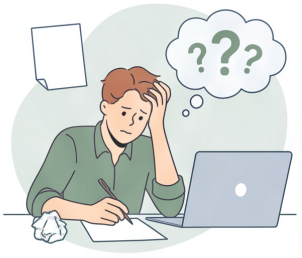
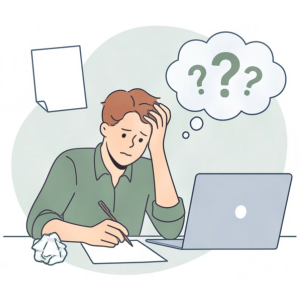
Styling fixes to home page problems and solutions

diff --git a/src/components/HomePage/Problems.test.tsx b/src/components/HomePage/Problems.test.tsx
@@ -3,6 +3,7 @@
 import "@testing-library/jest-dom/vitest";
 
 import { render, screen, within } from "@testing-library/react";
+import { Fragment } from "react";
 import { describe, expect, it, vi } from "vitest";
 
 import type { IProblemsProps } from "@/lib/types";
@@ -11,8 +12,10 @@ import Problems from "./Problems";
 
 vi.mock("next/image", () => ({
   default: ({ alt, className, src }: { alt: string; className?: string; src: string }) =>
-    // eslint-disable-next-line @next/next/no-img-element
-    <img alt={alt} className={className} src={src} />,
+    (
+      // eslint-disable-next-line @next/next/no-img-element
+      <img alt={alt} className={className} height={300} src={src} width={300} />
+    ),
 }));
 
 const problemsProps: IProblemsProps = {
@@ -50,6 +53,37 @@ describe("Problems", () => {
       }),
     ).toBeInTheDocument();
     expect(within(gapList).getAllByRole("listitem")).toHaveLength(3);
-    expect(screen.getByRole("img")).toBeInTheDocument();
+
+    const illustration = screen.getByRole("img", {
+      name: "Editorial workflow comparison illustration",
+    });
+
+    expect(illustration).toHaveAttribute("width", "300");
+    expect(illustration).toHaveAttribute("height", "300");
+  });
+
+  it("renders entity markup supplied through TSX props as decoded text", () => {
+    render(
+      <Problems
+        {...problemsProps}
+        toolFailures={[
+          {
+            title: (
+              <Fragment>
+                Global popularity &ne; niche authority
+              </Fragment>
+            ),
+            description: "Generic popularity is not the same as niche authority.",
+          },
+        ]}
+      />,
+    );
+
+    expect(
+      screen.getByRole("heading", {
+        level: 4,
+        name: "Global popularity ≠ niche authority",
+      }),
+    ).toBeInTheDocument();
   });
 });

diff --git a/src/components/HomePage/Features.tsx b/src/components/HomePage/Features.tsx
@@ -10,29 +10,29 @@ const FeatureCard: FC<IFeatureItem> = ({ title, image, description, link }) => {
   return (
     <Link href={link} className="block h-full">
       <article className="group relative flex h-full flex-col gap-5 rounded-3xl border border-trim-offset bg-page-base p-6 shadow-card transition-transform duration-200 hover:-translate-y-1">
-        <div className="flex items-start justify-between gap-4">
+        <div className="flex items-start justify-between gap-6">
           <Image
             src={image}
             alt="Feature illustration"
             width={90}
             height={90}
-            className="h-[90px] w-[90px] rounded-2xl border border-trim-offset object-cover shadow-soft"
+            className="h-22.5 w-22.5 rounded-2xl border border-trim-offset object-cover shadow-soft"
           />
-          <span className="text-xs font-semibold uppercase tracking-widest text-content-offset">
-            Feature
-          </span>
+          <div className="flex flex-col gap-2">
+            <span className="text-xs font-semibold uppercase tracking-widest text-primary">
+              Feature
+            </span>
+            <h3 className="text-xl font-semibold tracking-tight text-secondary sm:text-2xl">
+              {title}
+            </h3>
+          </div>
         </div>
 
-        <div className="space-y-3">
-          <h3 className="text-xl font-semibold tracking-tight text-content-active sm:text-2xl">
-            {title}
-          </h3>
-          <p className="m-0 text-base leading-7 text-content-offset">
-            {description}
-          </p>
-        </div>
+        <p className="m-0 text-base leading-7 text-content-offset">
+          {description}
+        </p>
 
-        <div className="mt-auto pt-2 text-sm font-semibold text-primary">
+        <div className="mt-auto text-sm font-semibold text-primary">
           Explore capability
         </div>
       </article>
@@ -43,14 +43,11 @@ const FeatureCard: FC<IFeatureItem> = ({ title, image, description, link }) => {
 const Features: FC<IFeaturesProps> = ({ title, description, items }) => {
   return (
     <PageSection id="features" classes="px-6 py-8 sm:px-8 sm:py-10">
-      <div className="max-w-2xl">
-        <p className="text-xs font-semibold uppercase tracking-widest text-content-offset">
-          Capabilities
-        </p>
-        <h2 className="mt-3 text-2xl font-semibold tracking-tight text-content-active sm:text-3xl">
+      <div className="flex flex-col gap-4">
+        <h2 className="font-semibold tracking-tight text-4xl sm:text-5xl text-secondary">
           {title}
         </h2>
-        <p className="mt-3 text-base leading-7 text-content-offset">
+        <p className="text-base leading-7 text-content-offset">
           {description}
         </p>
       </div>

diff --git a/src/components/HomePage/Clients.tsx b/src/components/HomePage/Clients.tsx
@@ -4,7 +4,6 @@ import Image, { type StaticImageData } from "next/image";
 import canvaLogo from "@/assets/clients/canva.svg";
 import carrefourLogo from "@/assets/clients/carrefour.svg";
 import cocaColaLogo from "@/assets/clients/coca-cola.svg";
-import holtLogo from "@/assets/clients/holt.svg";
 import lionsgateLogo from "@/assets/clients/lionsgate.svg";
 import universalLogo from "@/assets/clients/universal.svg";
 import vistraLogo from "@/assets/clients/vistra.svg";
@@ -17,7 +16,6 @@ const clientLogos: Record<string, StaticImageData> = {
   Canva: canvaLogo,
   Carrefour: carrefourLogo,
   "Coca-Cola": cocaColaLogo,
-  Holt: holtLogo,
   Lionsgate: lionsgateLogo,
   Universal: universalLogo,
   Vistra: vistraLogo,
@@ -29,8 +27,10 @@ const clientLogos: Record<string, StaticImageData> = {
  */
 
 const Clients: FC<IClientsProps> = ({ items }) => {
+  const itemsWithLogos = items.filter((item) => clientLogos[item.label]);
+
   const renderLogoGroup = (keyPrefix: string) =>
-    items.map((item) => {
+    itemsWithLogos.map((item) => {
       const logo = clientLogos[item.label];
 
       return (
@@ -38,19 +38,15 @@ const Clients: FC<IClientsProps> = ({ items }) => {
           key={`${keyPrefix}-${item.label}`}
           className="flex h-24 w-40 shrink-0 items-center justify-center rounded-3xl border border-trim-offset bg-page-base px-6 shadow-soft backdrop-blur-[18px] sm:h-28 sm:w-48 sm:px-8"
         >
-          {logo ? (
-            <div className="relative h-10 w-full">
-              <Image
-                src={logo}
-                alt={`${item.label} logo`}
-                fill
-                sizes="(min-width: 640px) 192px, 160px"
-                className="object-contain"
-              />
-            </div>
-          ) : (
-            <span className="sr-only">{item.label}</span>
-          )}
+          <div className="relative h-10 w-full">
+            <Image
+              src={logo}
+              alt={`${item.label} logo`}
+              fill
+              sizes="(min-width: 640px) 192px, 160px"
+              className="object-contain"
+            />
+          </div>
         </li>
       );
     });

diff --git a/src/components/HomePage/Clients.test.tsx b/src/components/HomePage/Clients.test.tsx
@@ -55,18 +55,38 @@ const clientsProps: IClientsProps = {
   ],
 };
 
+const clientLabelsWithLogo = [
+  "Canva",
+  "Carrefour",
+  "Coca-Cola",
+  "Lionsgate",
+  "Universal",
+  "Vistra",
+  "VML",
+];
+
 describe("Clients", () => {
   it("renders a text-free logo marquee for client social proof", () => {
     render(<Clients {...clientsProps} />);
 
-    const logoList = screen.getByRole("list", { name: "Client logos" });
+    const [logoList] = screen.getAllByRole("list", { name: "Client logos" });
     const logos = within(logoList).getAllByRole("img");
 
     expect(screen.queryByRole("heading", { level: 2, name: clientsProps.title })).not.toBeInTheDocument();
     expect(screen.queryByText(clientsProps.badge)).not.toBeInTheDocument();
     expect(screen.queryByText(clientsProps.items[0].description)).not.toBeInTheDocument();
-    expect(logos).toHaveLength(clientsProps.items.length);
+    expect(logos).toHaveLength(clientLabelsWithLogo.length);
     expect(screen.getByRole("img", { name: "Canva logo" })).toBeInTheDocument();
     expect(screen.getByRole("img", { name: "VML logo" })).toBeInTheDocument();
+  });
+
+  it("skips cards for client entries that do not have a logo asset", () => {
+    render(<Clients {...clientsProps} />);
+
+    const [logoList] = screen.getAllByRole("list", { name: "Client logos" });
+    const logos = within(logoList).getAllByRole("img");
+
+    expect(logos).toHaveLength(clientLabelsWithLogo.length);
+    expect(screen.queryByRole("img", { name: "Holt logo" })).not.toBeInTheDocument();
   });
 });

diff --git a/src/components/HomePage/Problems.tsx b/src/components/HomePage/Problems.tsx
@@ -19,14 +19,14 @@ const Problems = ({
   return (
     <PageSection classes="px-8 sm:px-12 pt-8 sm:pt-12 pb-4 sm:pb-10">
       <div className="grid gap-10 text-content-active">
-        <header className="flex gap-12">
-          <div className="overflow-hidden rounded-3xl">
+        <header className="flex items-start gap-12">
+          <div className="shrink-0 overflow-hidden rounded-3xl">
             <Image
               src={problemImage}
               alt="Editorial workflow comparison illustration"
-              width={704}
-              height={528}
-              className="h-full w-full object-cover"
+              width={300}
+              height={300}
+              className="block h-auto w-auto"
               priority
             />
           </div>
@@ -34,7 +34,7 @@ const Problems = ({
             <p className="text-base font-semibold uppercase tracking-wider text-secondary">
               {eyebrow}
             </p>
-            <h2 className="max-w-3xl text-4xl font-semibold tracking-tight sm:text-5xl">
+            <h2 className="max-w-3xl font-semibold tracking-tight text-3xl sm:text-4xl">
               {title}
             </h2>
             <p className="max-w-3xl text-lg leading-8 text-content-offset sm:text-xl">
@@ -60,16 +60,16 @@ const Problems = ({
             >
               {toolFailures.map((item, index) => (
                 <li
-                  key={item.title}
+                  key={`gap-${index}`}
                   className="h-full rounded-2xl border border-trim-offset bg-page-offset p-5"
                 >
                   <p className="text-sm font-semibold uppercase tracking-wider text-secondary">
                     Gap 0{index + 1}
                   </p>
-                  <h4 className="mt-4 text-xl font-semibold tracking-tight">
+                  <h4 className="mt-4 text-2xl font-semibold tracking-tight">
                     {item.title}
                   </h4>
-                  <p className="mt-3 text-sm leading-7 text-content-offset">
+                  <p className="mt-3 leading-7 text-content-offset">
                     {item.description}
                   </p>
                 </li>

diff --git a/src/app/(page)/page.test.tsx b/src/app/(page)/page.test.tsx
@@ -7,7 +7,7 @@ describe("Marketing home page", () => {
   it("renders the Digest Engine landing page sections in the expected order", () => {
     const markup = renderToStaticMarkup(<Home />);
     const featuresIndex = markup.indexOf('id="features"');
-    const clientsIndex = markup.indexOf('id="clients"');
+    //const clientsIndex = markup.indexOf('id="clients"');
     const pricingIndex = markup.indexOf('id="pricing"');
     const faqIndex = markup.indexOf('id="faq"');
     const ctaIndex = markup.indexOf('id="cta"');
@@ -18,9 +18,9 @@ describe("Marketing home page", () => {
     expect(markup).toContain("Pick the operating model that fits your stack");
     expect(markup).toContain("Questions teams ask before they trust this with their workflow");
     expect(markup).toContain('aria-label="Homepage call to action"');
-    expect(clientsIndex).toBeGreaterThan(-1);
+    //expect(clientsIndex).toBeGreaterThan(-1);
     expect(featuresIndex).toBeGreaterThan(-1);
-    expect(featuresIndex).toBeGreaterThan(clientsIndex);
+    //expect(featuresIndex).toBeGreaterThan(clientsIndex);
     expect(pricingIndex).toBeGreaterThan(featuresIndex);
     expect(faqIndex).toBeGreaterThan(pricingIndex);
     expect(ctaIndex).toBeGreaterThan(faqIndex);

diff --git a/src/app/(page)/page.tsx b/src/app/(page)/page.tsx
@@ -1,6 +1,6 @@
 "use client";
 
-import Clients from "@/components/HomePage/Clients";
+//import Clients from "@/components/HomePage/Clients";
 import FAQ from "@/components/HomePage/FAQ";
 import Features from "@/components/HomePage/Features";
 import Hero from "@/components/HomePage/Hero";
@@ -9,7 +9,7 @@ import Pricing from "@/components/Pricing";
 import Problems from "@/components/HomePage/Problems";
 import { CTA } from "@/components/HomePage/CTA";
 import {
-  ClientsProps,
+  //ClientsProps,
   FeatureItems,
   HomePageFaqProps,
   HeroProps,
@@ -23,7 +23,7 @@ export default function Home() {
     <main className="relative mx-auto flex w-full max-w-6xl flex-col gap-5 pt-24 md:gap-6">
       <Hero {...HeroProps} />
       <Problems {...ProblemsProps} />
-      <Clients {...ClientsProps} />
+      {/** <Clients {...ClientsProps} /> */}
       <Solution {...SolutionProps} />
       <Features {...FeatureItems} />
       <Pricing {...PricingProps} />

diff --git a/src/lib/props.tsx b/src/lib/props.tsx
@@ -50,7 +50,7 @@ export const ProblemsProps: IProblemsProps = {
     "Existing curation tools like Feedly, UpContent, ContentStudio, and generic AI content discovery products rank by generic clicks. They do not know who you trust, they cannot tell you when three peer newsletters in your niche already covered a topic this week, and they have no concept of authority or your point of view.",
   toolFailures: [
     {
-      title: "Global popularity is not niche authority",
+      title: <>Global popularity&nbsp;&ne;&nbsp;niche authority</>,
       description:
         "They rank content by generic clicks instead of weighting the people and publications you actually trust.",
     },

diff --git a/src/lib/types.ts b/src/lib/types.ts
@@ -21,7 +21,7 @@ export interface IHeroProps {
 }
 
 export interface IProblemsCard {
-  title: string;
+  title: ReactNode;
   description: string;
 }
 